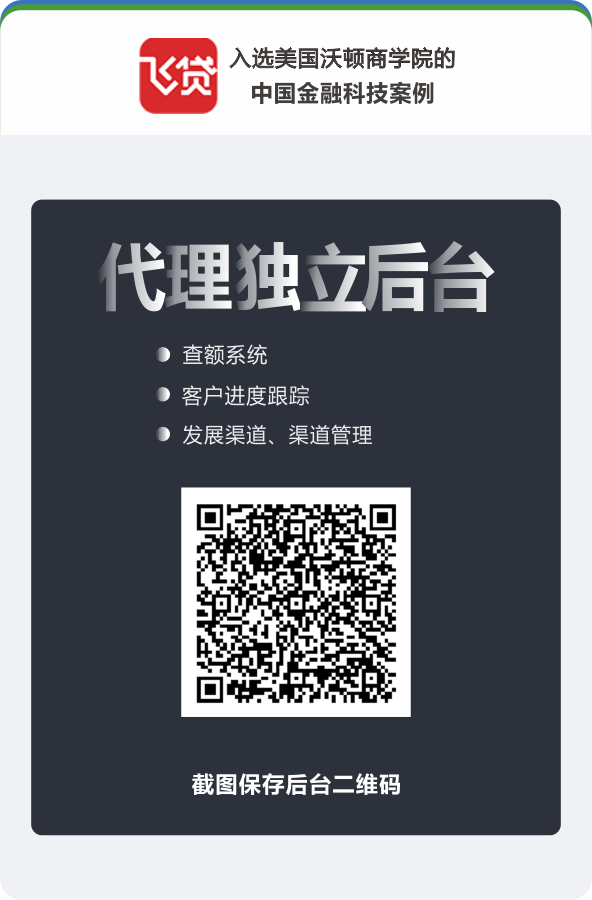
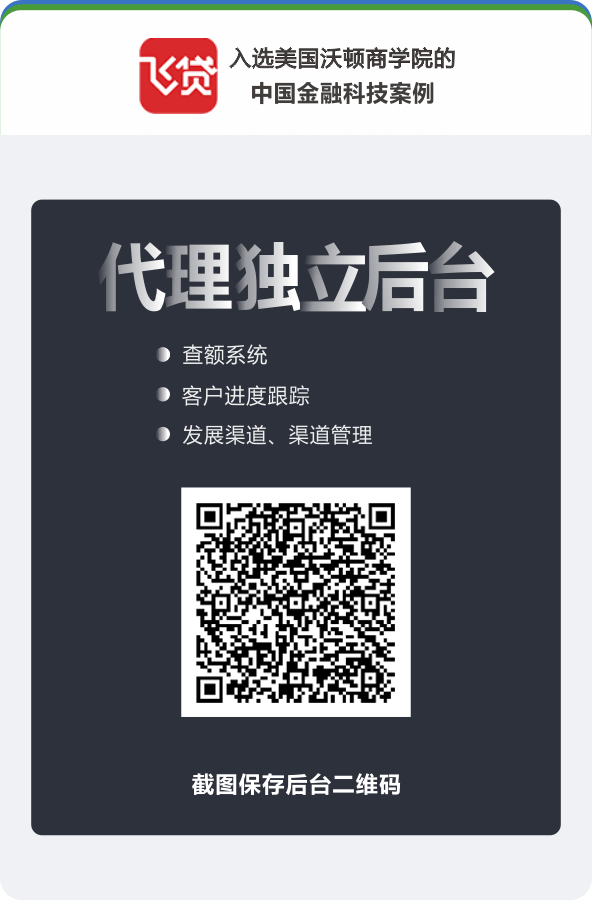
增加了活动弹框
增加了活动弹框

Changed region(s): [[0.3345, 0.56, 0.6689, 0.7778]]

diff --git a/public/js/remind.js b/public/js/remind.js
@@ -1,31 +1,31 @@
-// (function () {  
-//     function onBridgeReady() {  
-//         WeixinJSBridge.call('hideOptionMenu');  
-//     }  
+(function () {  
+    function onBridgeReady() {  
+        WeixinJSBridge.call('hideOptionMenu');  
+    }  
   
-//     if (typeof WeixinJSBridge == "undefined") {  
-//         if (document.addEventListener) {  
-//             document.addEventListener('WeixinJSBridgeReady', onBridgeReady, false);  
-//         } else if (document.attachEvent) {  
-//             document.attachEvent('WeixinJSBridgeReady', onBridgeReady);  
-//             document.attachEvent('onWeixinJSBridgeReady', onBridgeReady);  
-//         }  
-//     } else {  
-//         onBridgeReady();  
-//     }  
-//     var useragent = navigator.userAgent;  
-//     if (useragent.match(/MicroMessenger/i) != 'MicroMessenger') {   
-//         var opened = window.open('about:blank', '_self');  
-//     }  
-//     else{  
-//         window.alert = function(name){  
-//             var iframe = document.createElement("IFRAME");  
-//             iframe.style.display="none";  
-//             iframe.setAttribute("src", 'data:text/plain,');  
-//             document.documentElement.appendChild(iframe);  
-//             window.frames[0].window.alert(name);  
-//             iframe.parentNode.removeChild(iframe);  
-//         }  
-//     }     
+    if (typeof WeixinJSBridge == "undefined") {  
+        if (document.addEventListener) {  
+            document.addEventListener('WeixinJSBridgeReady', onBridgeReady, false);  
+        } else if (document.attachEvent) {  
+            document.attachEvent('WeixinJSBridgeReady', onBridgeReady);  
+            document.attachEvent('onWeixinJSBridgeReady', onBridgeReady);  
+        }  
+    } else {  
+        onBridgeReady();  
+    }  
+    var useragent = navigator.userAgent;  
+    if (useragent.match(/MicroMessenger/i) != 'MicroMessenger') {   
+        var opened = window.open('about:blank', '_self');  
+    }  
+    else{  
+        window.alert = function(name){  
+            var iframe = document.createElement("IFRAME");  
+            iframe.style.display="none";  
+            iframe.setAttribute("src", 'data:text/plain,');  
+            document.documentElement.appendChild(iframe);  
+            window.frames[0].window.alert(name);  
+            iframe.parentNode.removeChild(iframe);  
+        }  
+    }     
       
-// })()
+})()

diff --git a/routes/chaedu.js b/routes/chaedu.js
@@ -533,6 +533,8 @@ router.get('/chaedu_zonghe',function(req,res){
 								title_1:"查额度(未激活)",
 								title_2:"添加代理(未激活)",
 								number:rets[0].ownerNumber,
+								name:rets[0].ownername,
+								disba:"none",
 								disp:"none",
 								displ:"none"
 							}
@@ -547,6 +549,8 @@ router.get('/chaedu_zonghe',function(req,res){
 								title_1:"查额度(未激活)",
 								title_2:"添加代理(未激活)",
 								number:rets[0].ownerNumber,
+								name:rets[0].ownername,
+								disba:"",
 								disp:"",
 								displ:"none"
 							}
@@ -562,6 +566,8 @@ router.get('/chaedu_zonghe',function(req,res){
 								title_1:"查额度(未激活)",
 								title_2:"添加代理",
 								number:rets[0].ownerNumber,
+								name:rets[0].ownername,
+								disba:"none",
 								disp:"none",
 								displ:"none"
 							}
@@ -576,6 +582,8 @@ router.get('/chaedu_zonghe',function(req,res){
 								title_1:"查额度(未激活)",
 								title_2:"添加代理",
 								number:rets[0].ownerNumber,
+								name:rets[0].ownername,
+								disba:"",
 								disp:"",
 								displ:"none"
 							}
@@ -591,6 +599,8 @@ router.get('/chaedu_zonghe',function(req,res){
 								title_1:"查额度",
 								title_2:"添加代理",
 								number:rets[0].ownerNumber,
+								name:rets[0].ownername,
+								disba:"none",
 								disp:"none",
 								displ:""
 							}
@@ -605,6 +615,8 @@ router.get('/chaedu_zonghe',function(req,res){
 								title_1:"查额度",
 								title_2:"添加代理",
 								number:rets[0].ownerNumber,
+								name:rets[0].ownername,
+								disba:"",
 								disp:"",
 								displ:""
 							}

diff --git a/public/js/chaedu_zonghe.js b/public/js/chaedu_zonghe.js
@@ -1,7 +1,7 @@
 $(document).ready(function(){
 
 	var path = document.getElementById("zs_url").getAttribute("data-url");
-	var zs_url = 'http://feidai.com.ssdsedssddsfuldsdehonkodklsjefuli76576jdjd87yuh.xiaohongxian.com'+path;
+	var zs_url = 'http://www.feidai.com'+path;
 	var qrcode = new QRCode("qrcode", {
 	    text: zs_url,
 	    width: 110,
@@ -24,7 +24,7 @@ $(document).ready(function(){
 	//推广
 
 	var path = document.getElementById("tg_url").getAttribute("data-tg");
-	var tg_url = 'http://feidai.com.ssdsedssddsfuldsdehonkodklsjefuli76576jdjd87yuh.xiaohongxian.com'+path;
+	var tg_url = 'http://www.feidai.com'+path;
 
 	var qrcode = new QRCode("qrcode_t", {
 	    text: tg_url,
@@ -42,5 +42,9 @@ $(document).ready(function(){
 	//隐藏推广二维码
 	$('.clear_t').click(function(){
 		$(".qrcode_sq").css("display","none")
+	})
+	//隐藏推广二维码
+	$('.clear_ba').click(function(){
+		$(".frame_ba").css("display","none")
 	})
 })

diff --git a/public/styles/zonghe.css b/public/styles/zonghe.css
@@ -242,6 +242,41 @@ body{
     border-radius: 5px;
     color:#fff;
 }
+.frame_ba{
+    position: fixed;
+    top:0px;
+    width:100vw;
+    height: 100vh;
+    display: flex;
+    flex-direction: column;
+    align-items: center;
+    justify-content: center;
+    background-color: rgba(0,0,0,.5);
+
+}
+
+.frame_content{
+    width:320px;
+    height: 491px;
+    background-image: url('/images/feidaijun_ba.png');
+    background-repeat:no-repeat; 
+    background-size:100% 100%;
+    -moz-background-size:100% 100%;
+    border-radius: 10px;
+    margin-top:-20px;
+    display: flex;
+    flex-direction: column;
+    align-items: center;
+    /*justify-content: center;*/
+}
+
+.frame_content span{
+    margin-top:100px;
+    font-size: 40px;
+    font-weight: 600;
+    color: #d13425;
+}
+
 
 
 .qrcode_zs{
@@ -311,6 +346,6 @@ body{
     margin-top:160px;
 }
 
-.clear_t,.clear_a{
+.clear_t,.clear_a,.clear_ba{
     cursor: pointer;
 }

diff --git a/routes/update.js b/routes/update.js
@@ -8,7 +8,7 @@ var logger = require('../utils/logger').logger;
 let {formatDate} = require('../utils/DateUtil');
 let {Maths,Fang,Ka,Other,zonghefen_fang,jikexishu_fang} = require('../utils/Maths');
 
-router.get("/add_type",function(req,res){
+router.get("/add_type/15914132569",function(req,res){
 	Hao.update({},{$set:{money_level:1,act_zone:"no",zan_num:0}},{multi:true},function(err){
 		if(err){
 			return logger.error(err);

diff --git a/routes/activity.js b/routes/activity.js
@@ -117,7 +117,7 @@ router.post("/activity_gonghao_add",function(req,res){
 										return res.json({code:310});
 									}else{
 
-										if(rety[0].gonghao===11111111){
+										if(rety[0].gonghao===1111111122){
 											var hao = new Hao({
 												ownername:req.body.ownername,
 												ownerNumber:req.body.ownerNumber,
